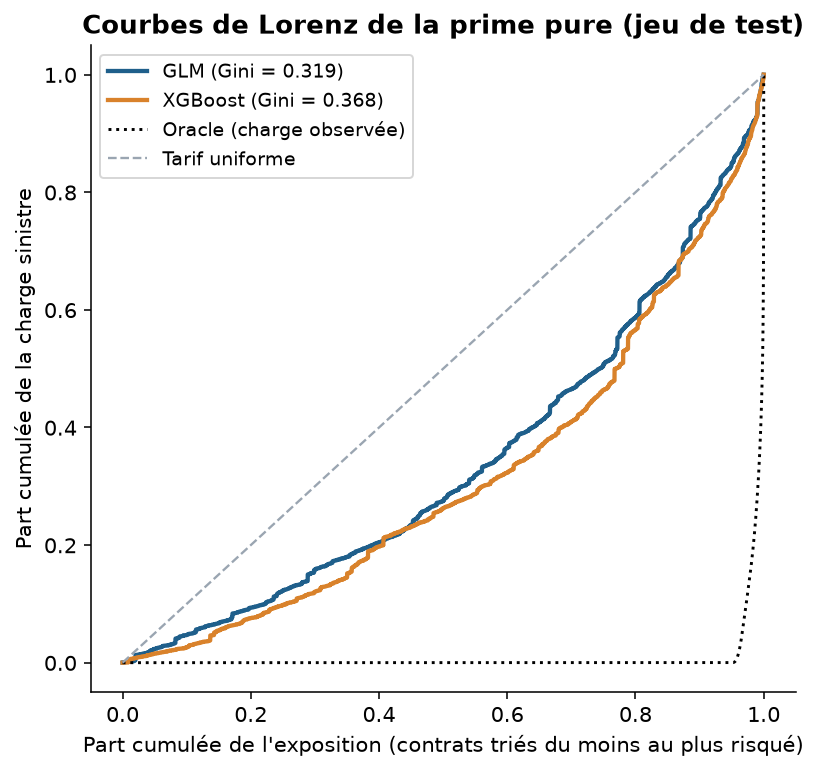
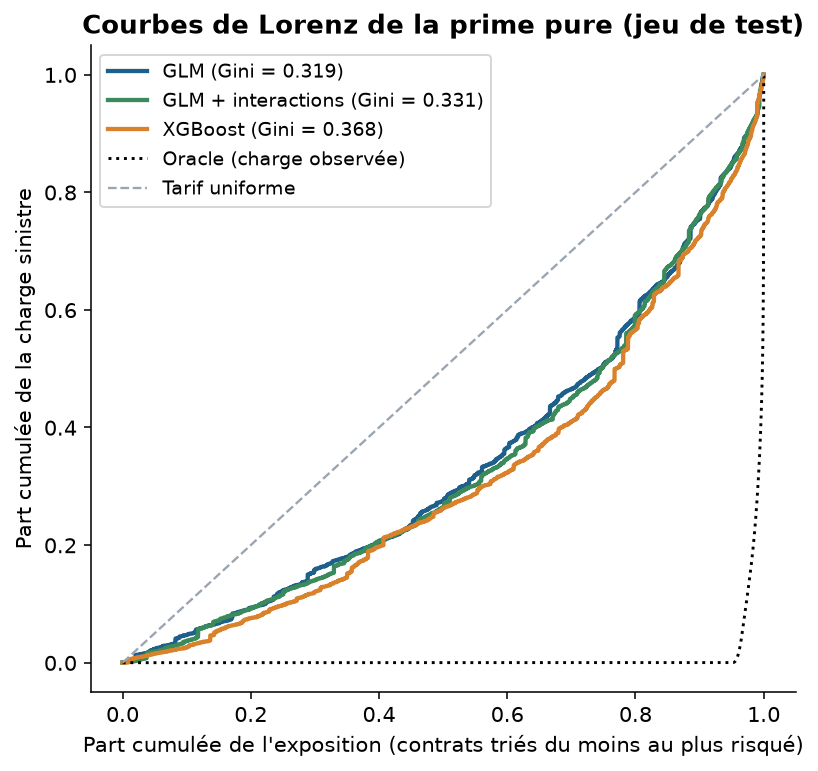
Améliorations : GLM avec interactions, bootstrap du Gini, double lift, sinistres graves
- GLM enrichi (bonus-malus × âge, bonus-malus × âge du véhicule, termes polynomiaux)
- intervalles de confiance du Gini et des écarts entre modèles par bootstrap
- double lift chart XGBoost contre GLM + interactions
- surcharge mutualisée des sinistres graves au-delà de 200 000 €
- tests et README mis à jour

diff --git a/main.py b/main.py
@@ -1,4 +1,4 @@
-"""Pipeline complet : données -> GLM et XGBoost (fréquence × coût moyen) -> comparaison.
+"""Pipeline complet : données -> GLM, GLM avec interactions et XGBoost (fréquence × coût moyen) -> comparaison.
 
 Utilisation :
     python main.py
@@ -14,11 +14,14 @@ import numpy as np
 
 from src import plots
 from src.data import build_dataset, train_test_split_policies
-from src.evaluation import calibration_by_decile, gamma_deviance, gini, poisson_deviance
+from src.evaluation import (
+    bootstrap_gini, calibration_by_decile, double_lift, gamma_deviance, gini, poisson_deviance,
+)
 from src.features import add_features
 from src.models import (
     fit_gbm_frequency, fit_gbm_severity, fit_glm_frequency, fit_glm_severity,
-    predict_gbm_frequency, predict_gbm_severity, predict_glm_frequency, predict_glm_severity, relativities, shap_values,
+    predict_gbm_frequency, predict_gbm_severity, predict_glm_frequency, predict_glm_severity,
+    relativities, shap_values,
 )
 
 OUT = Path(__file__).resolve().parent / "outputs"
@@ -38,14 +41,18 @@ def main():
     plots.frequency_by_variable(df, FIG / "frequence_par_variable.png")
 
     print("GLM...")
-    glm_f, glm_s = fit_glm_frequency(train), fit_glm_severity(train)
+    glm_f = fit_glm_frequency(train)
+    glm_fi = fit_glm_frequency(train, interactions=True)
+    glm_s = fit_glm_severity(train)
     print("XGBoost...")
     gbm_f, gbm_s = fit_gbm_frequency(train), fit_gbm_severity(train)
 
     predictors = {
         "GLM": lambda d: (predict_glm_frequency(glm_f, d), predict_glm_severity(glm_s, d)),
+        "GLM + interactions": lambda d: (predict_glm_frequency(glm_fi, d), predict_glm_severity(glm_s, d)),
         "XGBoost": lambda d: (predict_gbm_frequency(gbm_f, d), predict_gbm_severity(gbm_s, d)),
     }
+
     # Correction d'équilibre : un coefficient global, calculé sur le jeu d'entraînement,
     # pour que la charge prédite égale la charge observée (le tarif doit couvrir les sinistres).
     balance = {}
@@ -53,6 +60,11 @@ def main():
         f_tr, s_tr = predict(train)
         balance[name] = train["ClaimAmount"].sum() / (f_tr * s_tr * train["Exposure"]).sum()
     preds = {name: predict(test) for name, predict in predictors.items()}
+
+    # Sinistres graves : les modèles sont entraînés sur des montants écrêtés à 200 000 €.
+    # La part au-delà du seuil est mutualisée par une surcharge proportionnelle, estimée sur le train.
+    surcharge_graves = train["ClaimAmountRaw"].sum() / train["ClaimAmount"].sum()
+
     null_freq = np.full(len(test), train["ClaimNb"].sum() / train["Exposure"].sum())
     null_sev = np.full(len(test), train["ClaimAmount"].sum() / train["ClaimNb"].sum())
 
@@ -74,11 +86,19 @@ def main():
             "charge_predite_sur_observee": float((pp[name] * expo).sum() / observed_total),
             "coefficient_equilibre": float(balance[name]),
         }
-        cals[name] = calibration_by_decile(test, pp[name])
-    for name in ["GLM", "XGBoost"]:
         m = metrics[name]
         m["gain_deviance_frequence_vs_null_pct"] = 100 * (1 - m["deviance_poisson_frequence"] / metrics["null"]["deviance_poisson_frequence"])
         m["gain_deviance_cout_vs_null_pct"] = 100 * (1 - m["deviance_gamma_cout_moyen"] / metrics["null"]["deviance_gamma_cout_moyen"])
+        cals[name] = calibration_by_decile(test, pp[name])
+
+    print("Bootstrap du Gini...")
+    metrics["bootstrap_gini"] = bootstrap_gini(y_pp, pp, expo, n_boot=200)
+    metrics["sinistres_graves"] = {
+        "seuil_ecretement": 200_000,
+        "surcharge_mutualisee": float(surcharge_graves),
+        "charge_brute_test_couverte_xgboost": float((pp["XGBoost"] * surcharge_graves * expo).sum() / test["ClaimAmountRaw"].sum()),
+    }
+    metrics["glm_frequence_aic"] = {"sans_interactions": float(glm_f.aic), "avec_interactions": float(glm_fi.aic)}
     metrics["xgboost_nb_arbres"] = {"frequence": gbm_f.best_iteration + 1, "cout_moyen": gbm_s.best_iteration + 1}
 
     rel = relativities(glm_f)
@@ -87,6 +107,8 @@ def main():
     plots.glm_relativities(rel, FIG / "relativites_glm.png")
     plots.lorenz(test, pp, FIG / "lorenz_prime_pure.png", {k: metrics[k]["gini_prime_pure"] for k in pp})
     plots.calibration(cals, FIG / "calibration_deciles.png")
+    plots.double_lift(double_lift(test, pp["GLM + interactions"], pp["XGBoost"]),
+                      "GLM + interactions", "XGBoost", FIG / "double_lift.png")
     sample = test.sample(20_000, random_state=2026)
     plots.shap_importance(shap_values(gbm_f, sample), FIG / "shap_frequence.png")
 

diff --git a/src/evaluation.py b/src/evaluation.py
@@ -51,3 +51,49 @@ def calibration_by_decile(df: pd.DataFrame, pred_pp: np.ndarray, n: int = 10) ->
         "prime_pure_observee": g["charge"].sum() / g["exposure"].sum(),
         "exposition": g["exposure"].sum(),
     })
+
+
+def bootstrap_gini(y_true: np.ndarray, preds: dict, exposure: np.ndarray, n_boot: int = 200, seed: int = 2026) -> dict:
+    """Intervalles de confiance à 95 % du Gini de chaque modèle et des écarts entre modèles (bootstrap sur les contrats)."""
+    rng = np.random.default_rng(seed)
+    names = list(preds)
+    draws = {n: [] for n in names}
+    n = len(y_true)
+    for _ in range(n_boot):
+        idx = rng.integers(0, n, n)
+        for name in names:
+            draws[name].append(gini(y_true[idx], preds[name][idx], exposure[idx]))
+    out = {}
+    for name in names:
+        d = np.array(draws[name])
+        out[name] = {"gini": float(gini(y_true, preds[name], exposure)),
+                     "ic95": [float(np.percentile(d, 2.5)), float(np.percentile(d, 97.5))]}
+    for i, a in enumerate(names):
+        for b in names[i + 1:]:
+            diff = np.array(draws[b]) - np.array(draws[a])
+            out[f"{b} - {a}"] = {"ecart": float(np.mean(diff)),
+                                 "ic95": [float(np.percentile(diff, 2.5)), float(np.percentile(diff, 97.5))]}
+    return out
+
+
+def double_lift(df: pd.DataFrame, pred_a: np.ndarray, pred_b: np.ndarray, n: int = 10) -> pd.DataFrame:
+    """Double lift : contrats triés selon le rapport B / A, puis prime moyenne observée, A et B par décile.
+
+    Là où les deux tarifs sont en désaccord, on regarde lequel suit le mieux la charge observée.
+    Les trois séries sont normalisées par leur moyenne globale.
+    """
+    expo = df["Exposure"].to_numpy()
+    tmp = pd.DataFrame({"ratio": pred_b / pred_a, "a": pred_a, "b": pred_b, "e": expo,
+                        "charge": df["ClaimAmount"].to_numpy()}).sort_values("ratio")
+    cum = tmp["e"].cumsum() / tmp["e"].sum()
+    tmp["decile"] = np.minimum((cum * n).astype(int) + 1, n)
+    g = tmp.groupby("decile")
+    obs = g["charge"].sum() / g["e"].sum()
+    a = g.apply(lambda d: np.average(d["a"], weights=d["e"]), include_groups=False)
+    b = g.apply(lambda d: np.average(d["b"], weights=d["e"]), include_groups=False)
+    mean_obs = tmp["charge"].sum() / tmp["e"].sum()
+    return pd.DataFrame({
+        "observee": obs / mean_obs,
+        "modele_a": a / np.average(tmp["a"], weights=tmp["e"]),
+        "modele_b": b / np.average(tmp["b"], weights=tmp["e"]),
+    })

diff --git a/src/plots.py b/src/plots.py
@@ -12,7 +12,7 @@ import pandas as pd  # noqa: E402
 from .evaluation import lorenz_curve  # noqa: E402
 from .features import DRIV_AGE_LABELS  # noqa: E402
 
-BLUE, ORANGE, GREY = "#1f5f8b", "#d9822b", "#9aa5b1"
+BLUE, ORANGE, GREEN, GREY = "#1f5f8b", "#d9822b", "#3a8a5c", "#9aa5b1"
 plt.rcParams.update({"font.size": 11, "axes.spines.top": False, "axes.spines.right": False})
 
 
@@ -85,7 +85,7 @@ def lorenz(df: pd.DataFrame, preds: dict, path: Path, ginis: dict):
     y = (df["ClaimAmount"] / df["Exposure"]).to_numpy()
     e = df["Exposure"].to_numpy()
     fig, ax = plt.subplots(figsize=(6.5, 6))
-    for (name, p), color in zip(preds.items(), [BLUE, ORANGE]):
+    for (name, p), color in zip(preds.items(), [BLUE, GREEN, ORANGE]):
         x, c = lorenz_curve(y, p, e)
         ax.plot(x, c, color=color, lw=2.2, label=f"{name} (Gini = {ginis[name]:.3f})")
     x, c = lorenz_curve(y, y, e)
@@ -120,4 +120,20 @@ def shap_importance(shap_df: pd.DataFrame, path: Path):
     ax.barh(imp.index, imp.values, color=BLUE)
     ax.set_xlabel("Moyenne des |valeurs SHAP| (échelle log de la fréquence)")
     ax.set_title("XGBoost fréquence : importance des variables (SHAP)", fontweight="bold")
+    _save(fig, path)
+
+
+def double_lift(dl: pd.DataFrame, name_a: str, name_b: str, path: Path):
+    """Double lift chart : prime observée et primes des deux modèles, par décile du rapport B / A."""
+    x = dl.index.to_numpy()
+    fig, ax = plt.subplots(figsize=(8, 4.5))
+    ax.plot(x, dl["observee"], color="black", marker="o", lw=2.2, label="Observée")
+    ax.plot(x, dl["modele_a"], color=BLUE, marker="s", lw=1.8, label=name_a)
+    ax.plot(x, dl["modele_b"], color=ORANGE, marker="^", lw=1.8, label=name_b)
+    ax.axhline(1, color=GREY, ls="--", lw=1)
+    ax.set_xticks(x)
+    ax.set_xlabel(f"Décile du rapport {name_b} / {name_a} (à gauche : {name_b} plus bas que {name_a})")
+    ax.set_ylabel("Prime pure relative (1 = moyenne)")
+    ax.set_title(f"Double lift : {name_b} contre {name_a} (jeu de test)", fontweight="bold")
+    ax.legend()
     _save(fig, path)

diff --git a/tests/test_pricing.py b/tests/test_pricing.py
@@ -53,3 +53,32 @@ def test_calibration_by_decile_preserves_totals():
     cal = calibration_by_decile(df, pred, n=10)
     assert len(cal) == 10
     assert cal["exposition"].sum() == pytest.approx(df["Exposure"].sum())
+
+
+def test_bootstrap_gini_returns_intervals_and_differences():
+    from src.evaluation import bootstrap_gini
+    rng = np.random.default_rng(2)
+    exposure = rng.uniform(0.1, 1, 800)
+    y = rng.gamma(0.3, 500, 800)
+    preds = {"bon": y + rng.normal(0, 50, 800), "aleatoire": rng.random(800)}
+    res = bootstrap_gini(y, preds, exposure, n_boot=50)
+    lo, hi = res["bon"]["ic95"]
+    assert lo <= res["bon"]["gini"] <= hi
+    # le modèle aléatoire classe moins bien : l'écart « aleatoire - bon » est négatif
+    assert res["aleatoire - bon"]["ic95"][1] < 0
+
+
+def test_double_lift_is_normalised():
+    from src.evaluation import double_lift
+    rng = np.random.default_rng(3)
+    df = pd.DataFrame({"Exposure": rng.uniform(0.1, 1, 1000), "ClaimAmount": rng.gamma(0.2, 1000, 1000)})
+    a, b = rng.uniform(50, 200, 1000), rng.uniform(50, 200, 1000)
+    dl = double_lift(df, a, b)
+    assert len(dl) == 10
+    assert set(dl.columns) == {"observee", "modele_a", "modele_b"}
+
+
+def test_interaction_formula_is_valid():
+    from src.features import GLM_INTERACTIONS
+    f = glm_formula("ClaimNb") + GLM_INTERACTIONS
+    assert f.count(":BonusMalusCap") == 2

diff --git a/src/models.py b/src/models.py
@@ -9,16 +9,17 @@ import statsmodels.api as sm
 import statsmodels.formula.api as smf
 import xgboost as xgb
 
-from .features import CAT_GLM_SEV, NUM_GLM_SEV, gbm_matrix, glm_formula
+from .features import CAT_GLM_SEV, GLM_INTERACTIONS, NUM_GLM_SEV, gbm_matrix, glm_formula
 
 SEED = 2026
 
 
 # ------------------------------------------------------------------ GLM
-def fit_glm_frequency(train: pd.DataFrame):
-    """GLM de Poisson, lien log, avec log(exposition) en offset."""
+def fit_glm_frequency(train: pd.DataFrame, interactions: bool = False):
+    """GLM de Poisson, lien log, avec log(exposition) en offset (avec ou sans interactions)."""
+    formula = glm_formula("ClaimNb") + (GLM_INTERACTIONS if interactions else "")
     model = smf.glm(
-        glm_formula("ClaimNb"),
+        formula,
         data=train,
         family=sm.families.Poisson(),
         offset=np.log(train["Exposure"]),

diff --git a/src/features.py b/src/features.py
@@ -55,6 +55,15 @@ def gbm_matrix(df: pd.DataFrame) -> pd.DataFrame:
     return X
 
 
+# GLM enrichi : interactions et non-linéarité du bonus-malus, choisies sur une validation
+# interne au jeu d'entraînement (gain de déviance, AIC), en restant lisibles.
+GLM_INTERACTIONS = (
+    " + C(DrivAgeGrp, Treatment(reference='51-70')):BonusMalusCap"
+    " + C(VehAgeGrp, Treatment(reference='1-10')):BonusMalusCap"
+    " + I((BonusMalusCap - 50) ** 2) + I((BonusMalusCap - 50) ** 3)"
+)
+
+
 def glm_formula(target: str, cats=CAT_GLM, nums=NUM_GLM) -> str:
     terms = [f"C({c}, Treatment(reference='{REFERENCE[c]}'))" for c in cats] + list(nums)
     return f"{target} ~ " + " + ".join(terms)
